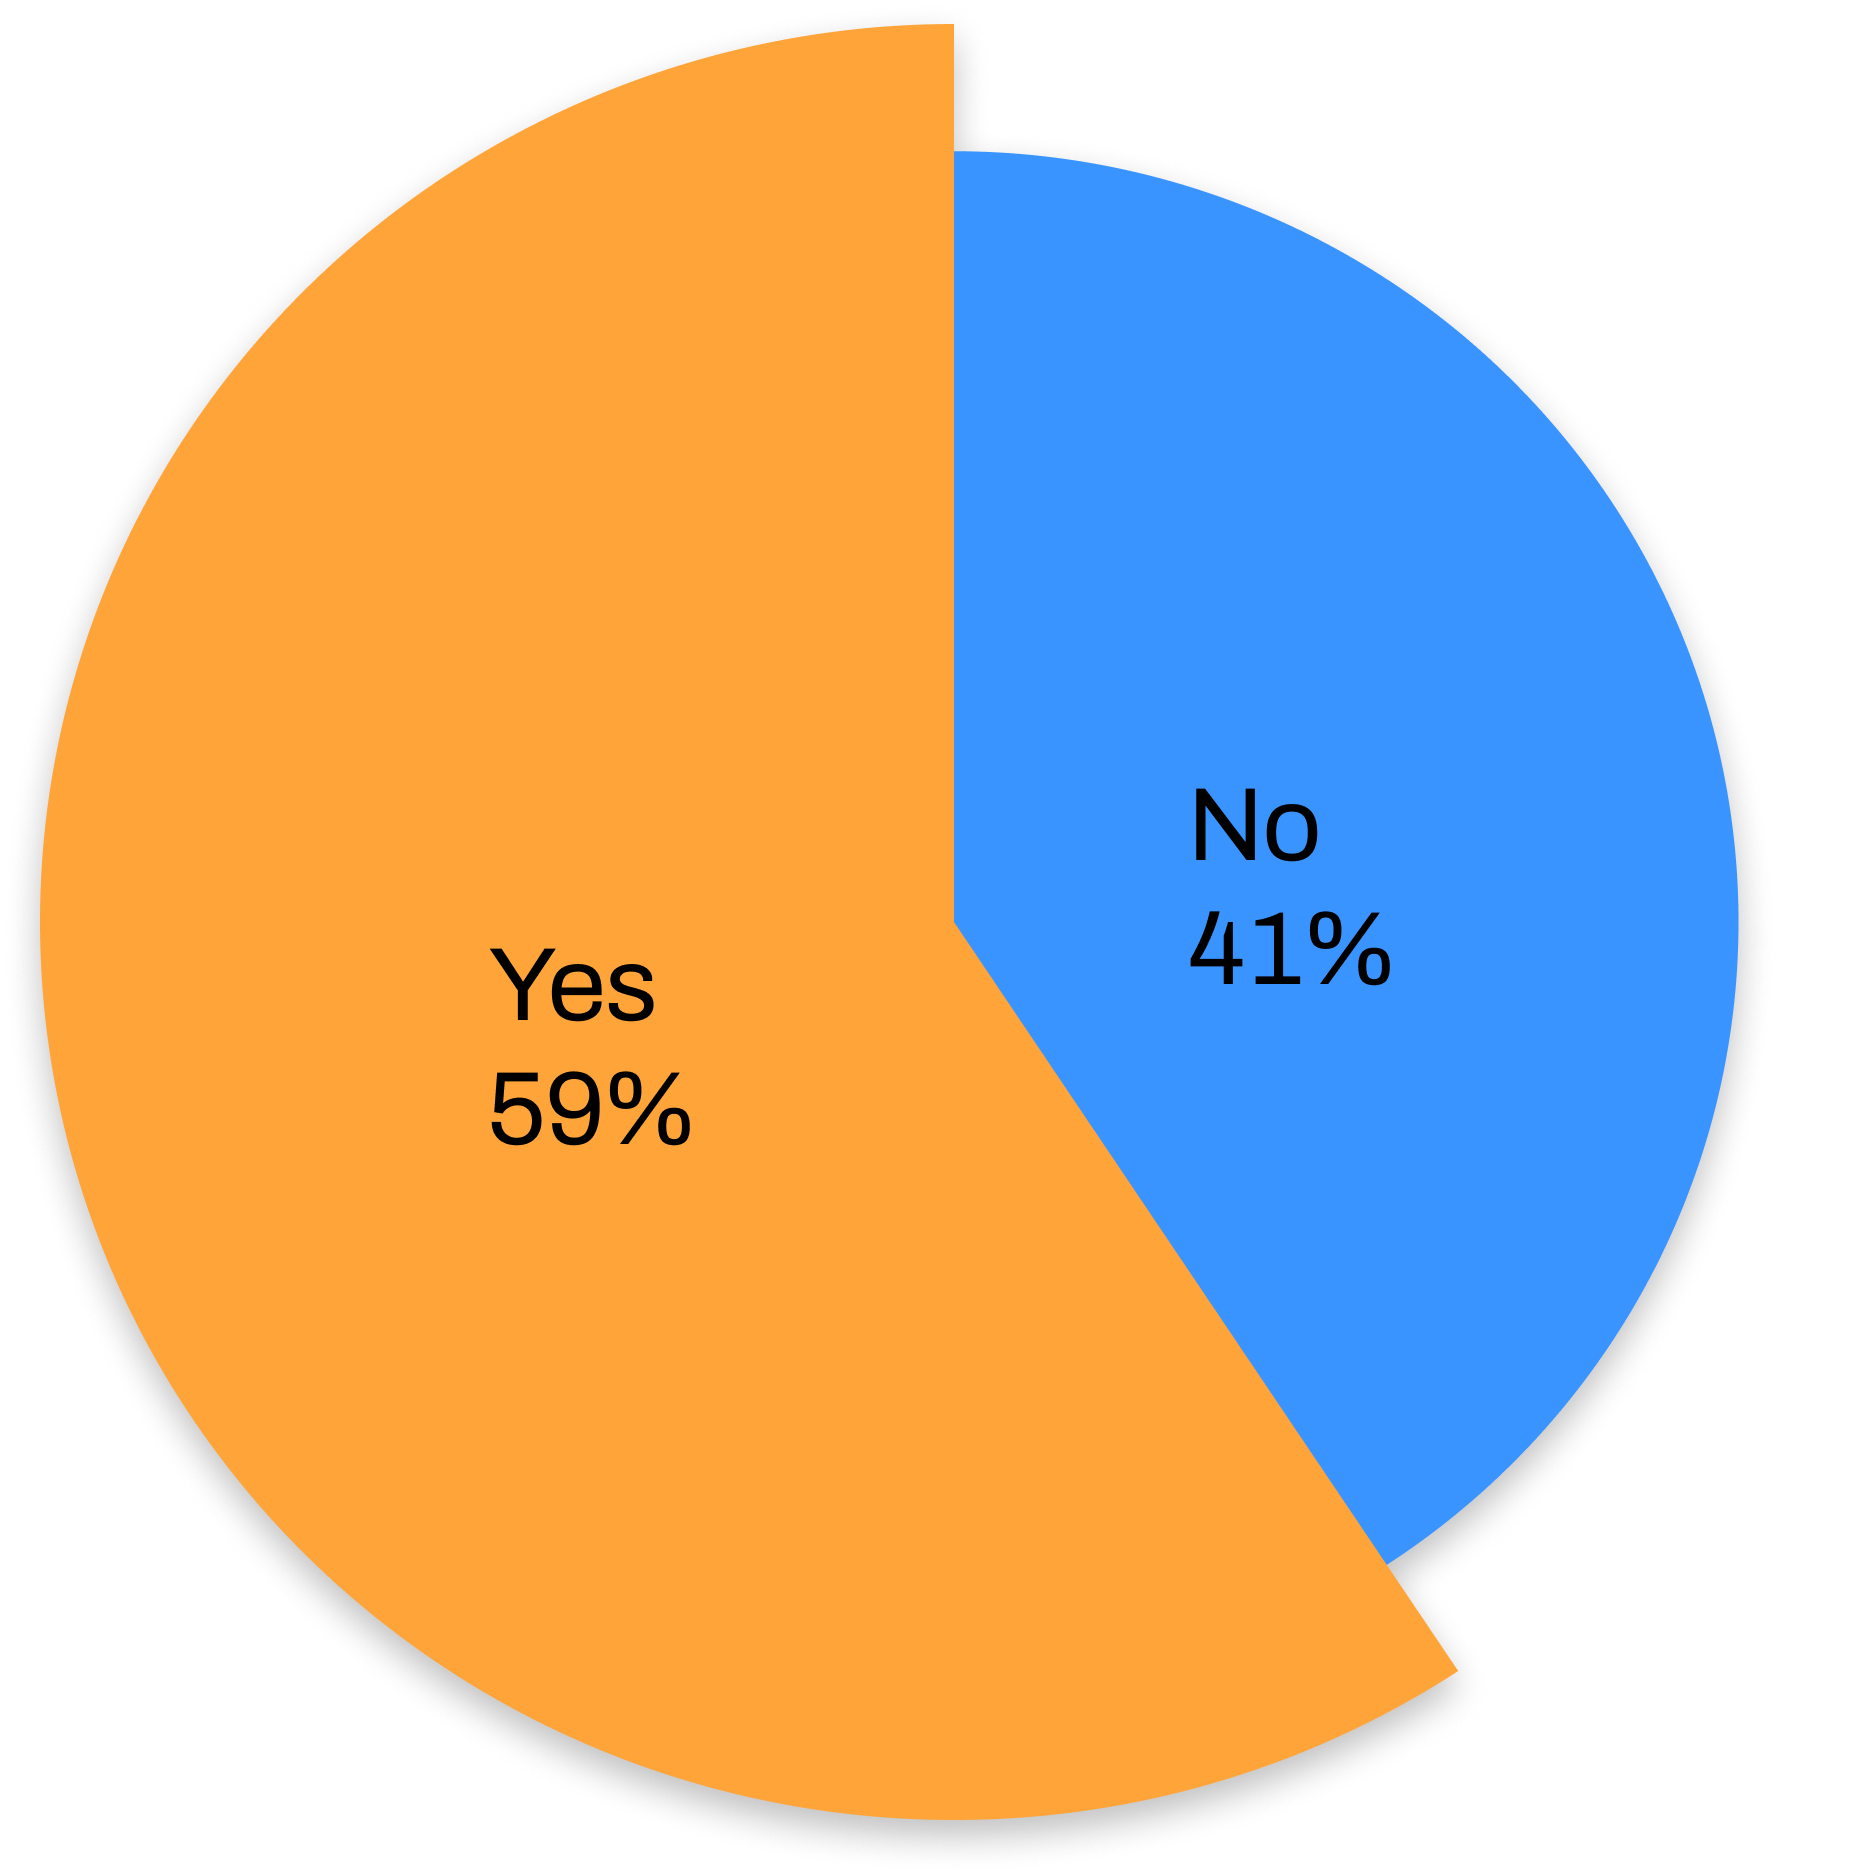
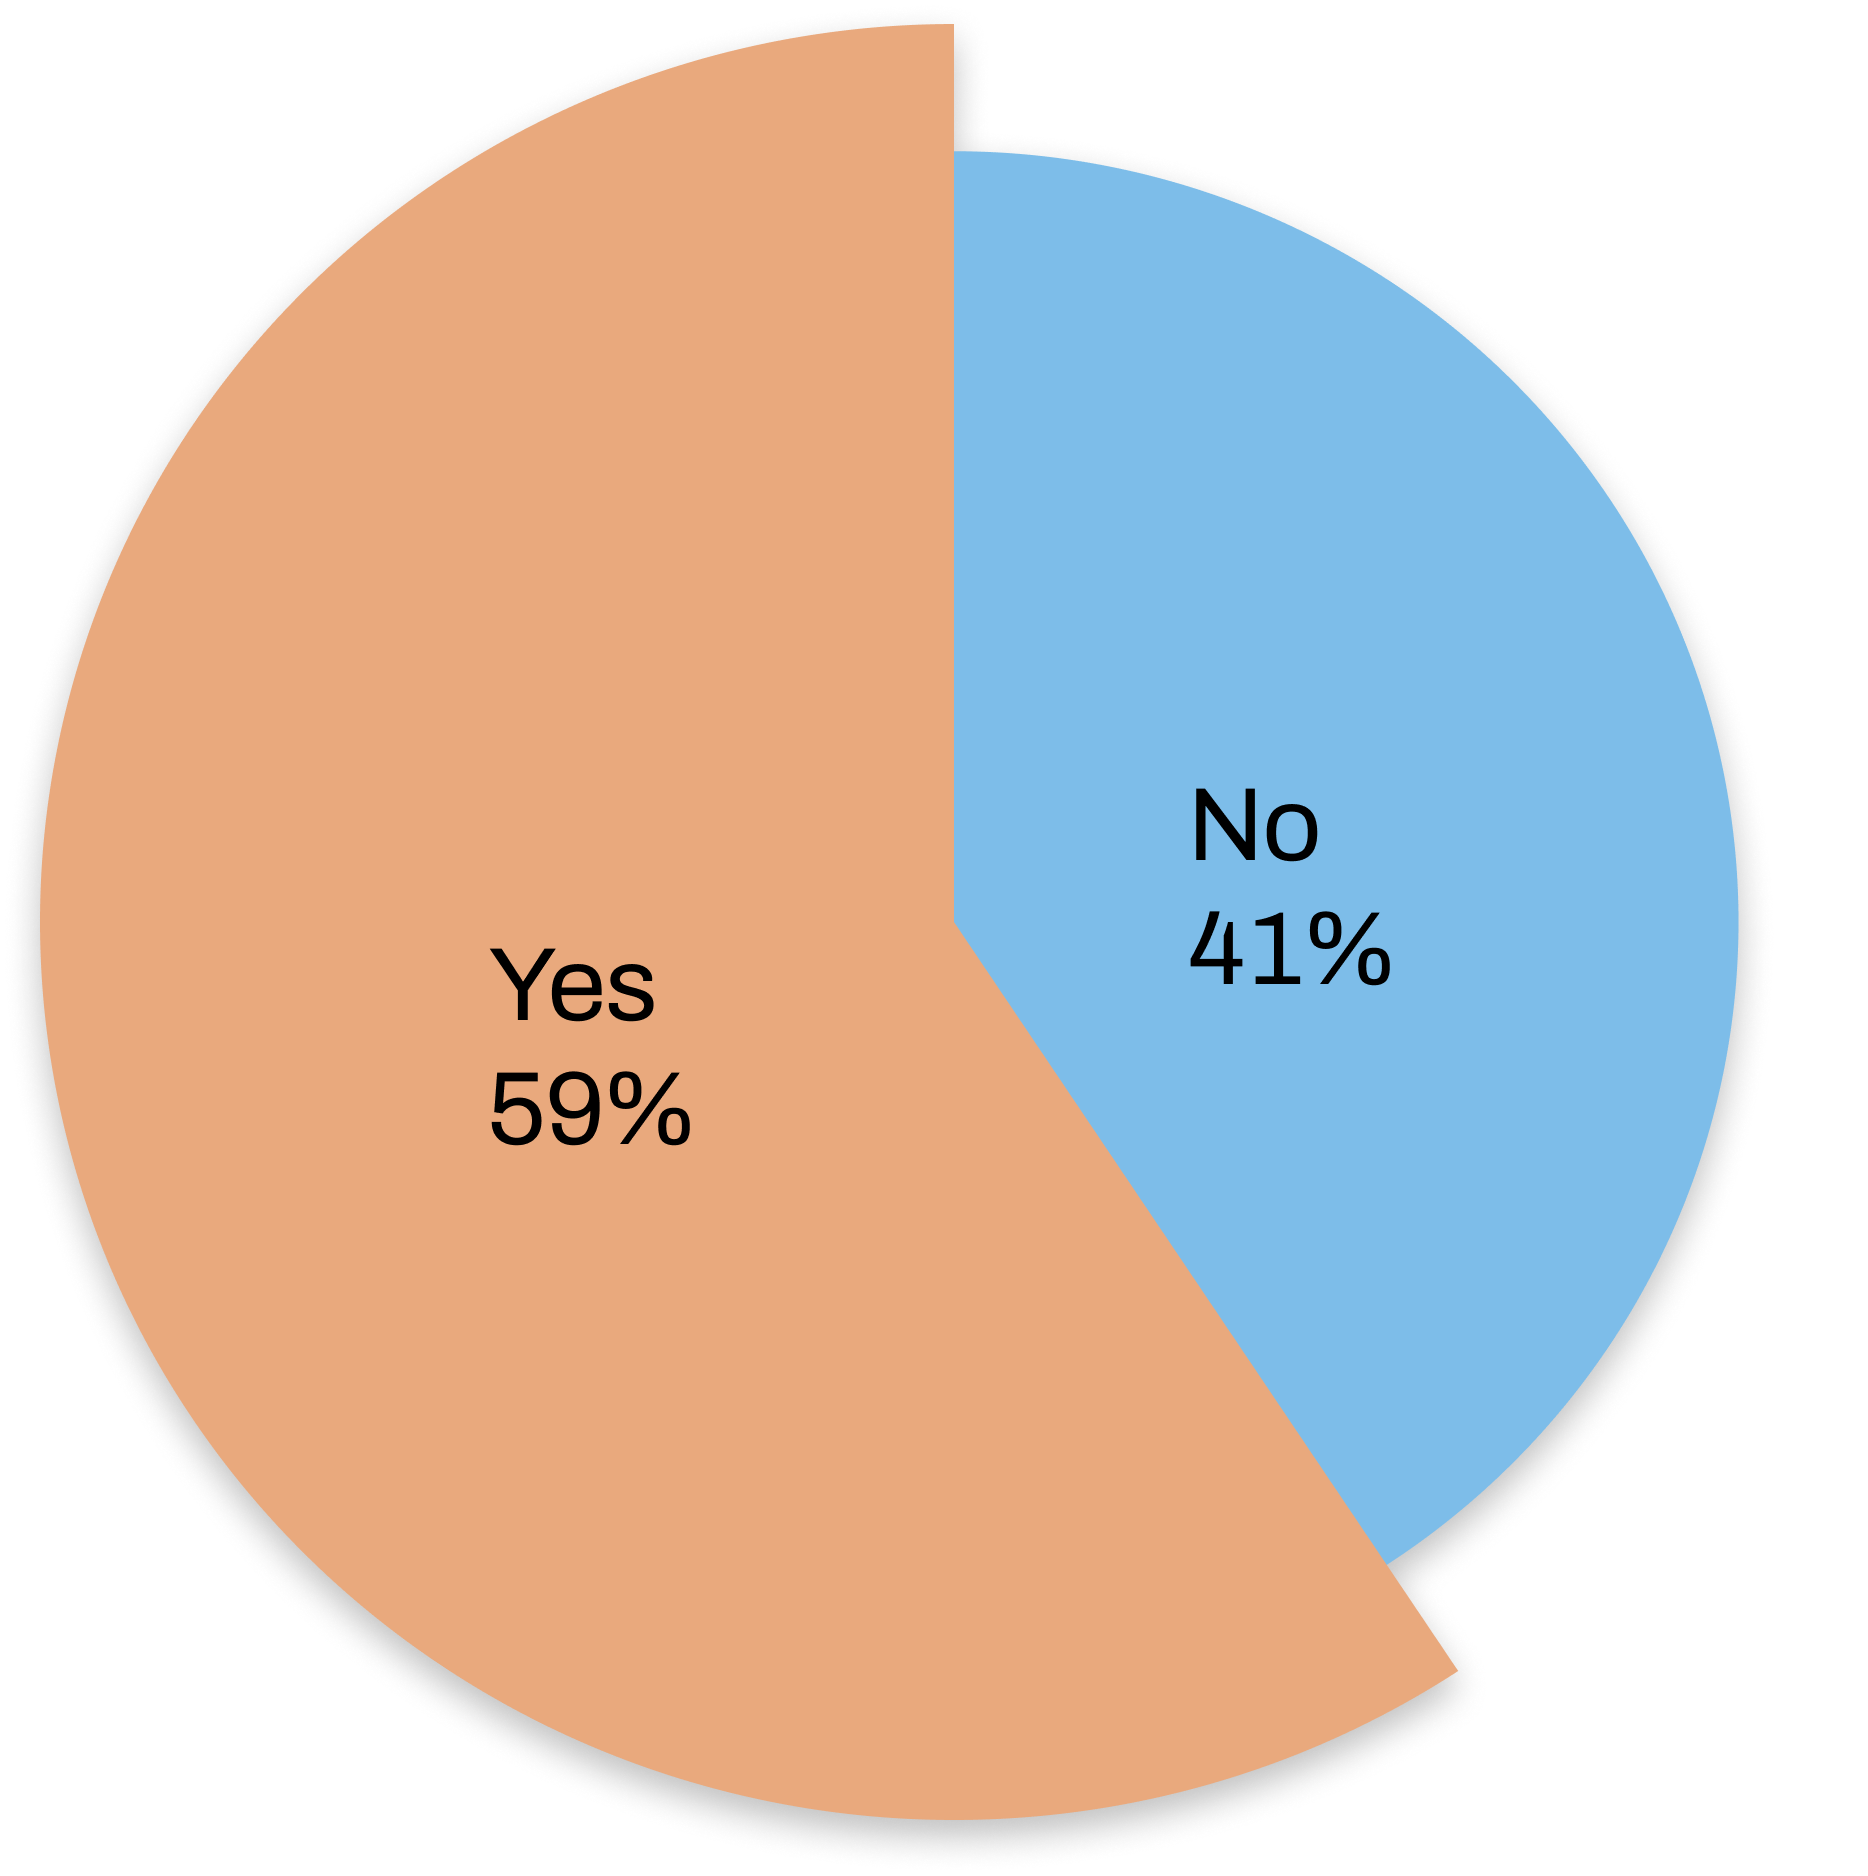
changed graph and color scheme

diff --git a/index.css b/index.css
@@ -7,10 +7,10 @@ body {
 }
 
 h1 {
-  color: #FFA439;
+  color: #E9A97D;
 }
 
 .btn {
-  background-color: #FFA439;
+  background-color: #E9A97D;
   border: none;
 }
